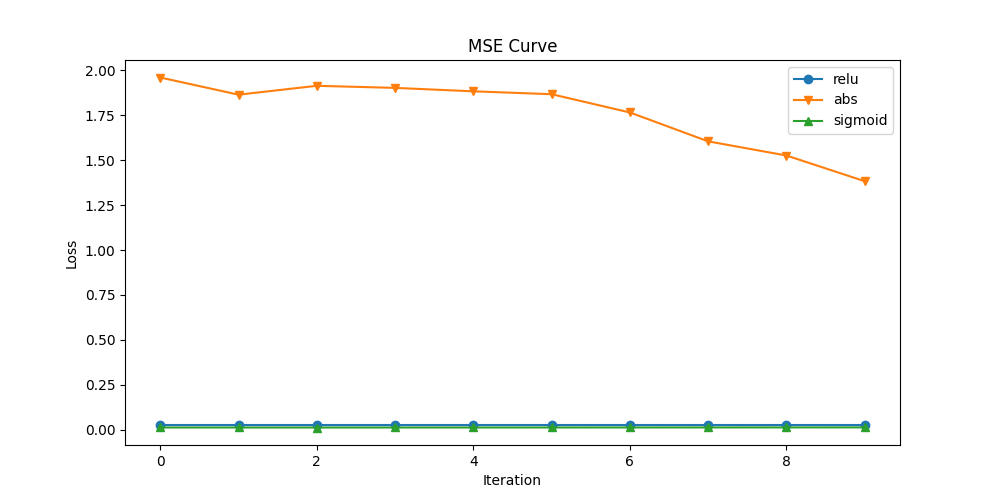
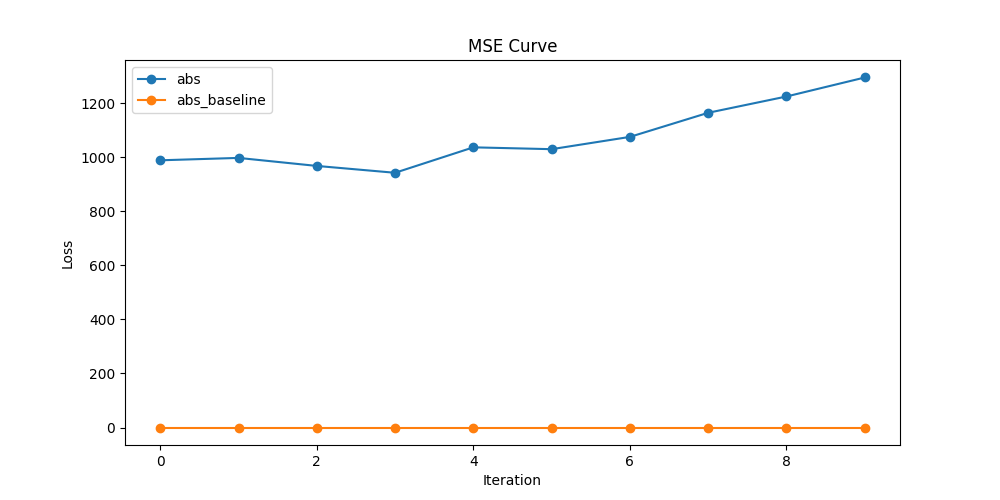
Update to SSE

diff --git a/train_ttdist_synthetic.py b/train_ttdist_synthetic.py
@@ -31,20 +31,14 @@ def make_dir_if_not_exists(dir_path):
 
 def main(
     rank: int = 1,
-    output_size: int = 2,
-    vocab_size: int = 3,
+    output_size: int = 4,
+    vocab_size: int = 4,
     norm_method: str = "relu",
     batch_size: int = 5,
     n_iters: int = 1000,
     log_freq: int = 100,
 ):
-    # n_iters = 1000
-    # log_freq = 100
-    # batch_size = 5
-    # rank = 1
-    # vocab_size = 20
-    # output_size = 1
-
+    # Generate a random true distribution
     true_dist = torch.abs(torch.randn(*[vocab_size for _ in range(output_size)]))
     true_dist = true_dist / true_dist.sum()  # P(d1, d2, ..., dN)
 
@@ -57,7 +51,8 @@ def main(
 
     optimizer = torch.optim.Adam([alpha, beta, core], lr=1e-3)
 
-    mse_loss_values = []
+    sse_loss_values = []
+    sse_loss_baseline = []
     for i in range(n_iters):
         optimizer.zero_grad()
 
@@ -69,15 +64,17 @@ def main(
         if i % log_freq == 0 or i == 0:
             # Materialize the learned distribution
             learned_dist = ttdist.materialize().detach().numpy().squeeze()
-            mse = ((learned_dist - true_dist.detach().numpy()) ** 2).mean()
-            print(f"[{i}] {norm_method}: MSE = {mse:.3f} | Loss = {loss.item():.3f}")
-            mse_loss_values.append(mse)
+            sse = ((learned_dist - true_dist.detach().numpy()) ** 2).sum()
+            sse_baseline = ((0 - true_dist.detach().numpy()) ** 2).sum()
+            print(f"[{i}] {norm_method}: SSE = {sse:.3f} | Loss = {loss.item():.3f}")
+            sse_loss_values.append(sse)
+            sse_loss_baseline.append(sse_baseline)
 
         # Backward pass:
         loss.backward()
         optimizer.step()
 
-    return mse_loss_values
+    return sse_loss_values, sse_loss_baseline
 
 
 def run_normalizations_exp():
@@ -102,18 +99,25 @@ def run_normalizations_exp():
         "d",
     ]
     normalizations_methods = [
-        "relu",
+        # "relu",
         "abs",
         # "softmax",
-        "sigmoid",
+        # "sigmoid",
     ]
 
     plt.figure(figsize=(10, 5))
     for i, norm_method in enumerate(normalizations_methods):
         log_dir = "logs/ttdist-synthetic"
-        mse_loss_values = main(norm_method=norm_method, log_freq=100, n_iters=1000)
+        sse_loss_values, sse_loss_values_baseline = main(
+            norm_method=norm_method, log_freq=100, n_iters=1000
+        )
         plt.plot(
-            mse_loss_values, label=f"{norm_method}", marker=markers[i % len(markers)]
+            sse_loss_values, label=f"{norm_method}", marker=markers[i % len(markers)]
+        )
+        plt.plot(
+            sse_loss_values_baseline,
+            label=f"{norm_method}_baseline",
+            marker=markers[i % len(markers)],
         )
     plt.xlabel("Iteration")
     plt.ylabel("Loss")
